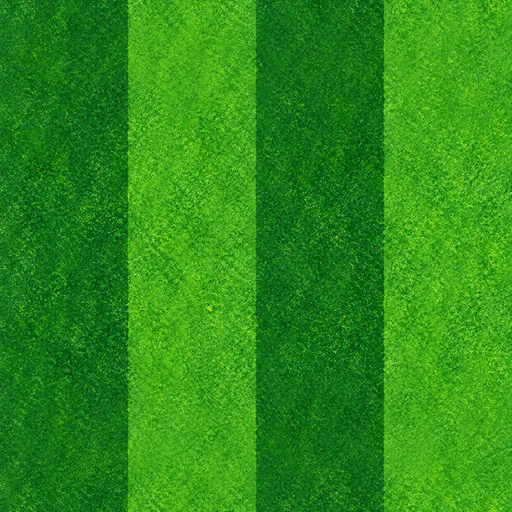
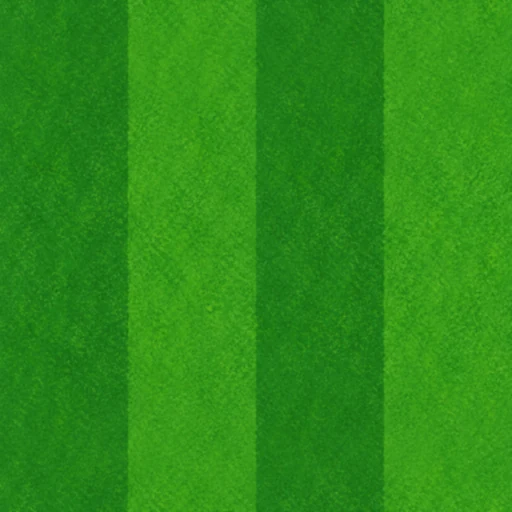
Thunderdome: quieter grass drawn the iPhone way, an ink outline round the pitch
Safari ignored the per-row pattern transforms, so the stripes stood straight up the screen;
each row is now cut from the art with plain drawImage calls. The grass has half the contrast
and a softer grain, and the pitch has straight trimmed sides with an ink outline.

Claude-Session: https://claude.ai/code/session_01NK7tbrKg5PdA6fuyEUPXLd

Changed region(s): [[0.0, 0.0, 1.0, 1.0]]

diff --git a/js/scene.js b/js/scene.js
@@ -161,31 +161,45 @@ function renderPainted(cam, art) {
     g.drawImage(art.logo, x0 + (sw - lw) / 2, y0 + (sh - lh) / 2, lw, lh);
   }
 
-  // the outfield and the pitch, row by row
+  // the outfield and the pitch, row by row: each screen row is one line across the ground, cut
+  // from the art (plain drawImage calls: pattern transforms are unreliable on iPhone Safari)
   const mips = grassMips(art);
-  const pats = new Map();
-  const pt = art.pitch, PZ0 = -2, PZ1 = 22, PX = 1.55; // the painted strip covers 24 m by 3.1 m
+  const pt = art.pitch, PZ0 = -2, PZ1 = 22, PX = 1.52; // the painted strip covers 24 m; its ragged sides are trimmed
+  const ptx0 = pt.naturalWidth * 0.04, ptw = pt.naturalWidth * 0.92;
   const rowH = 1 / dpr;
   for (let y = hy; y < H; y += rowH) {
     const gp = cam.groundAt(W / 2, y + rowH / 2);
     if (!gp) continue;
-    const k = cam.f / cam.depth(gp.z);
+    const d = cam.depth(gp.z), k = cam.f / d;
     const tex = mipFor(mips, k * dpr), TS = tex.width;
-    let pat = pats.get(tex);
-    if (!pat) { pat = g.createPattern(tex, 'repeat'); pats.set(tex, pat); }
-    const q = (((gp.z / TILE_M) * TS) % TS + TS) % TS;
-    pat.setTransform(new DOMMatrix([cam.dir * k * TILE_M / TS, 0, 0, 1, W / 2 + cam.dir * k * (-2.5 - cam.cx), y - q]));
-    g.fillStyle = pat;
-    g.fillRect(0, y, W, rowH + 0.5);
+    const row = Math.min(TS - 1, Math.floor((((gp.z / TILE_M) * TS) % TS + TS) % TS));
+    // the tiles across this row: tile n starts at world x = n·20 + o, so a dark stripe runs under
+    // the pitch (seen from the other end the tile reads backwards: one stripe further over)
+    const o = cam.dir > 0 ? -2.5 : -7.5;
+    const xa = cam.xAt(0, gp.z), xb = cam.xAt(W, gp.z);
+    const n0 = Math.floor((Math.min(xa, xb) - o) / TILE_M), n1 = Math.floor((Math.max(xa, xb) - o) / TILE_M);
+    const tw = TILE_M * k;
+    for (let n = n0; n <= n1; n++) {
+      const sx = W / 2 + cam.dir * (n * TILE_M + o - cam.cx) * k;
+      g.drawImage(tex, 0, row, TS, 1, cam.dir > 0 ? sx : sx - tw, y, tw + 0.6, rowH + 0.4);
+    }
     if (gp.z > PZ0 && gp.z < PZ1) {
       const v = ((PZ1 - gp.z) / (PZ1 - PZ0)) * pt.naturalHeight;
       const a = cam.project(-PX, 0, gp.z), b = cam.project(PX, 0, gp.z);
       if (a && b) {
         const x0 = Math.min(a.x, b.x), x1 = Math.max(a.x, b.x);
-        const span = Math.max(1, (pt.naturalHeight / (PZ1 - PZ0)) * (rowH / (cam.cy * k)) * cam.depth(gp.z));
-        g.drawImage(pt, 0, Math.min(v, pt.naturalHeight - span), pt.naturalWidth, span, x0, y, x1 - x0, rowH + 0.5);
+        const span = Math.max(1, (pt.naturalHeight / (PZ1 - PZ0)) * (rowH * d * d) / (cam.cy * cam.f));
+        g.drawImage(pt, ptx0, Math.min(v, pt.naturalHeight - span), ptw, span, x0, y, x1 - x0, rowH + 0.4);
       }
     }
+  }
+  // an ink outline round the pitch, like everything else in the game
+  const ends = [[-PX, PZ0], [PX, PZ0], [PX, PZ1], [-PX, PZ1]].map(([x, z]) => cam.project(x, 0, Math.max(z, cam.dir > 0 ? cam.cz + 1 : z)));
+  if (ends.every(Boolean)) {
+    g.save();
+    g.strokeStyle = INK; g.lineJoin = 'round'; g.lineWidth = 2.5;
+    g.beginPath(); ends.forEach((p, i) => (i ? g.lineTo(p.x, p.y) : g.moveTo(p.x, p.y))); g.closePath(); g.stroke();
+    g.restore();
   }
   // floodlight pool after dark
   const pc = cam.project(0, 0, 10) || { x: W / 2, y: H * 0.6 };

diff --git a/tools/build_ground_art.py b/tools/build_ground_art.py
@@ -107,6 +107,10 @@ def main():
     W = g.shape[1]
     w = (np.abs(np.arange(W) - W / 2) / (W / 2)) ** 3
     g = g * (1 - w)[None, :, None] + np.roll(g, W // 2, axis=1) * w[None, :, None]
+    # quieter than painted: soften the grain and halve the contrast, so the grass stays behind the play
+    g = ndi.gaussian_filter(g, (1.6, 1.6, 0))
+    mean = g.reshape(-1, 3).mean(0)
+    g = mean + (g - mean) * 0.5
     g = Image.fromarray(np.clip(g, 0, 255).astype(np.uint8)).rotate(90, expand=True).resize((512, 512), Image.LANCZOS)
     g.save(d + 'grass.webp', 'WEBP', quality=88, method=6)
     print(d + 'grass.webp', g.size)
